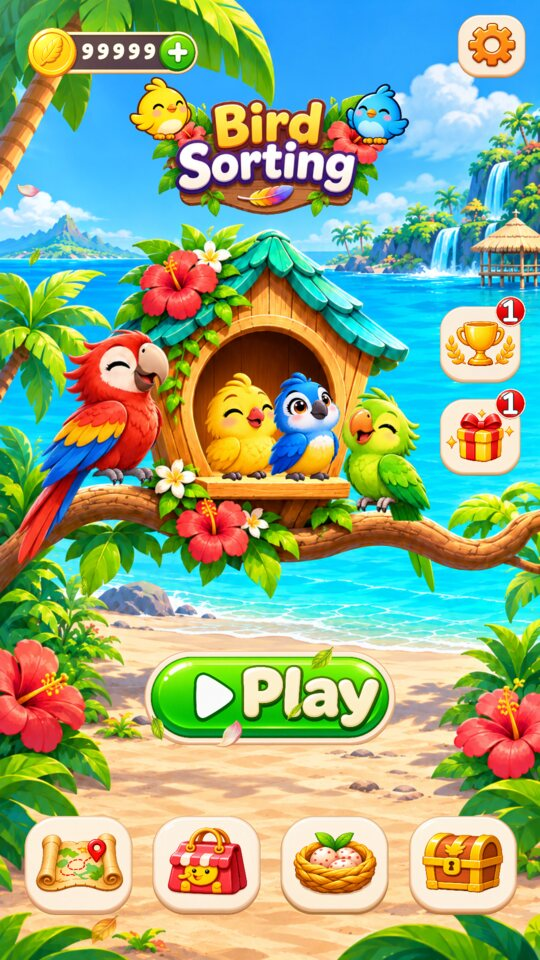
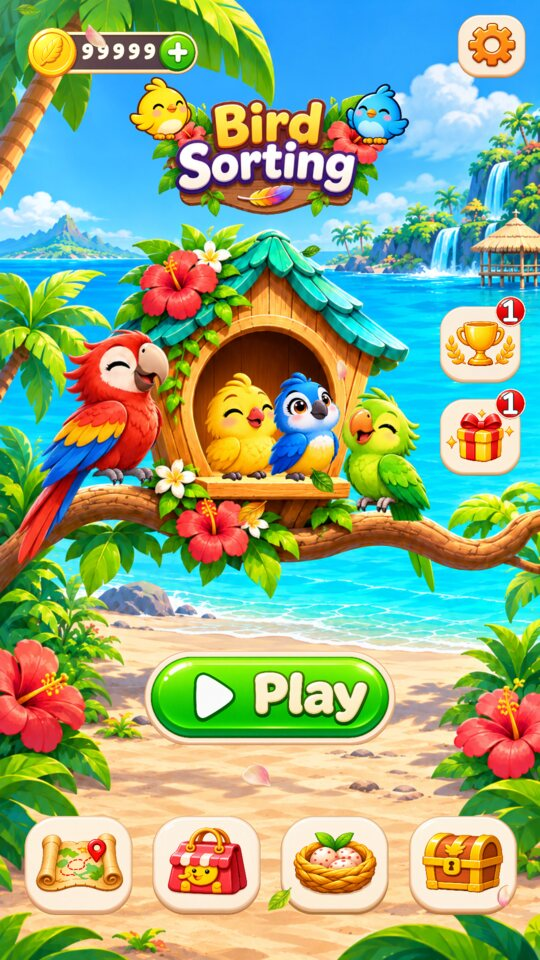
Balance painted Play lettering within its button

diff --git a/docs/work-log/island-home/report.md b/docs/work-log/island-home/report.md
@@ -5,7 +5,8 @@
 - Replaced the homepage coin HUD with the approved feather-coin / dark-slot / green-plus artwork. The number region is separate from the plus. The plus is retained visually for a future entry; no purchase, recharge or new click action exists.
 - Homepage coins now display plain digits without commas, capped at 99999. The profile balance, economy, saves and values on other pages are not changed.
 - Added the approved independent painted `Play` and `开始` word sprites. A locale-change notification updates the homepage word immediately when Settings switches language. No shared locale catalog or shared font behavior changed.
-- Applied the user's follow-up that the controls had been reduced too far. Bottom faces are now 190x174, about 9 percent smaller than the original 208x191 design rather than the previous 21 percent reduction. Their original 208x191 hit targets and positions stay unchanged. Play is restored to a 440x171 visible surface with a proportionate 250x128 word box and a 460x191 hit area around the same center. It remains smaller than the original large mockup pill and retains clear primary-action hierarchy. The documented elongated-Play width exception still applies.
+- Applied the user's follow-up that the controls had been reduced too far. Bottom faces are now 190x174, about 9 percent smaller than the original 208x191 design rather than the previous 21 percent reduction. Their original 208x191 hit targets and positions stay unchanged. Play is restored to a 440x171 visible surface with a 210x100 word box and a 460x191 hit area around the same center. It remains smaller than the original large mockup pill and retains clear primary-action hierarchy. The documented elongated-Play width exception still applies.
+- Corrected the subsequent text-to-button mismatch without resizing the button again. The preceding painted words filled roughly 73 percent (Chinese) / 70 percent (English) of the visible pill height, making the surface crowded. A centered 210x100 text box reduces actual ink to about 58 percent for both languages and restores space beside the play icon and inside the rim. This changes only placement and scale of accepted word textures.
 - Centered the visible numeral ink in the coin slot. The old alignment centered a 120px cell despite unequal transparent top/bottom margins, causing the number to appear high. The number area now has center y90.5 in reference pixels, and the complete ink union is aligned to it without changing glyph assets or balances.
 - Reward badges remain attached to the smaller visible navigation faces, rather than floating at the old touch-target edge.
 - Retained all six existing entries, Settings, original background, house, bird frame sequences, breathing, navigation signals, level selection, audio and reward badges. The yellow logo bird moves 20 reference pixels right to sit on the smaller sign.
@@ -24,7 +25,7 @@ Ran Godot 4.7.2 asset import and two focused canonical-homepage captures using `
 - Under `xvfb-run -a -s '-screen 0 1280x2000x24'`: the same Godot binary with `--path PerchSort --audio-driver Dummy --rendering-driver opengl3 --resolution 1080x1920 -- --capture=<output> --lang=<locale> --profile=<fake profile JSON> --wait=0.8`.
 - Chinese input: `{"coins":50585,"language":"zh"}`. English input: `{"coins":1234567,"language":"en"}`.
 - Both runs completed successfully and produced 1080x1920 screenshots. No parse/script/error lines occurred. Both logs contain only the expected virtual-display warning that V-Sync cannot be changed.
-- Personally inspected both real runtime images against the user screenshot and retained design: visible coin numerals are vertically centered, 50585/99999 are clear of the plus, Play/开始 fit their larger surface, and all four smaller bottom faces retain even spacing. The header, house and six entries remain present. These captures were rerun after the size restoration; no screenshot from the preceding correction is reused. These stills establish layout only, not animation or sound.
+- Personally inspected both real runtime images against the user screenshot and retained design: visible coin numerals are vertically centered, 50585/99999 are clear of the plus, Play/开始 fit their larger surface, and all four smaller bottom faces retain even spacing. The header, house and six entries remain present. These captures were rerun after the word-size correction; no screenshot from the preceding correction is reused. These stills establish layout only, not animation or sound.
 - Evidence: `build/island-home/layout-review/{home_zh.png,home_en.png,home_zh.log,home_en.log,import.log}`. Small copies of the current captures and logs are in `evidence/layout-review/` for review, not in the approved-runtime baseline.
 
 Independent review inspected the source diff, the same actual runtime images and capture logs and reported no blocking findings.

diff --git a/docs/work-log/island-home/spec.md b/docs/work-log/island-home/spec.md
@@ -22,7 +22,7 @@ Measured reference-canvas layout:
 - Title: `(260,159,420,226)`. The yellow logo bird's feet move from x265 to x285 to remain supported by the smaller sign; bird art and size do not change.
 - Coin HUD: `(22,31,350,117)`, numeric area `(139.5,71.5,135,38)`. Preserve the plus as part of the approved artwork, with no recharge or purchase action.
 - Show plain digits without separators. Values above 99999 show 99999; this is display-only and never writes back to the profile or economy.
-- Following the user's runtime screenshot feedback, Play is centered at the same point with a `(240,1122.5,460,191)` hit area and a 440x171 visible face. Its approved painted word fits a 250x128 box at local `(177,31)`. The larger hit area fully contains the previous one. The elongated-pill width exception in `docs/design/ui-system.md` applies; its height stays at or below the navigation height.
+- Following the user's runtime screenshot feedback, Play is centered at the same point with a `(240,1122.5,460,191)` hit area and a 440x171 visible face. Its approved painted word fits a 210x100 box at local `(197,45.5)`. The painted ink occupies about 58 percent of the visible button height, leaving deliberate top/bottom space and a gap after the play icon. The larger hit area fully contains the previous one. The elongated-pill width exception in `docs/design/ui-system.md` applies; its height stays at or below the navigation height.
 - The four bottom navigation faces are 190x174 (about 9 percent below the original 208x191 design, rather than the over-reduced 164x151), centered inside unchanged 208x191 touch targets. Their positions, spacing and callbacks remain unchanged. Reward badges follow the visible face. Settings, the two event controls, house, background, bird frame sequences and other pages remain unchanged.
 - Vertically center the union of the actual numeral ink bounds, rather than the unequal transparent glyph-cell margins. Preserve numeral size, baseline spacing and the separate plus region.
 
